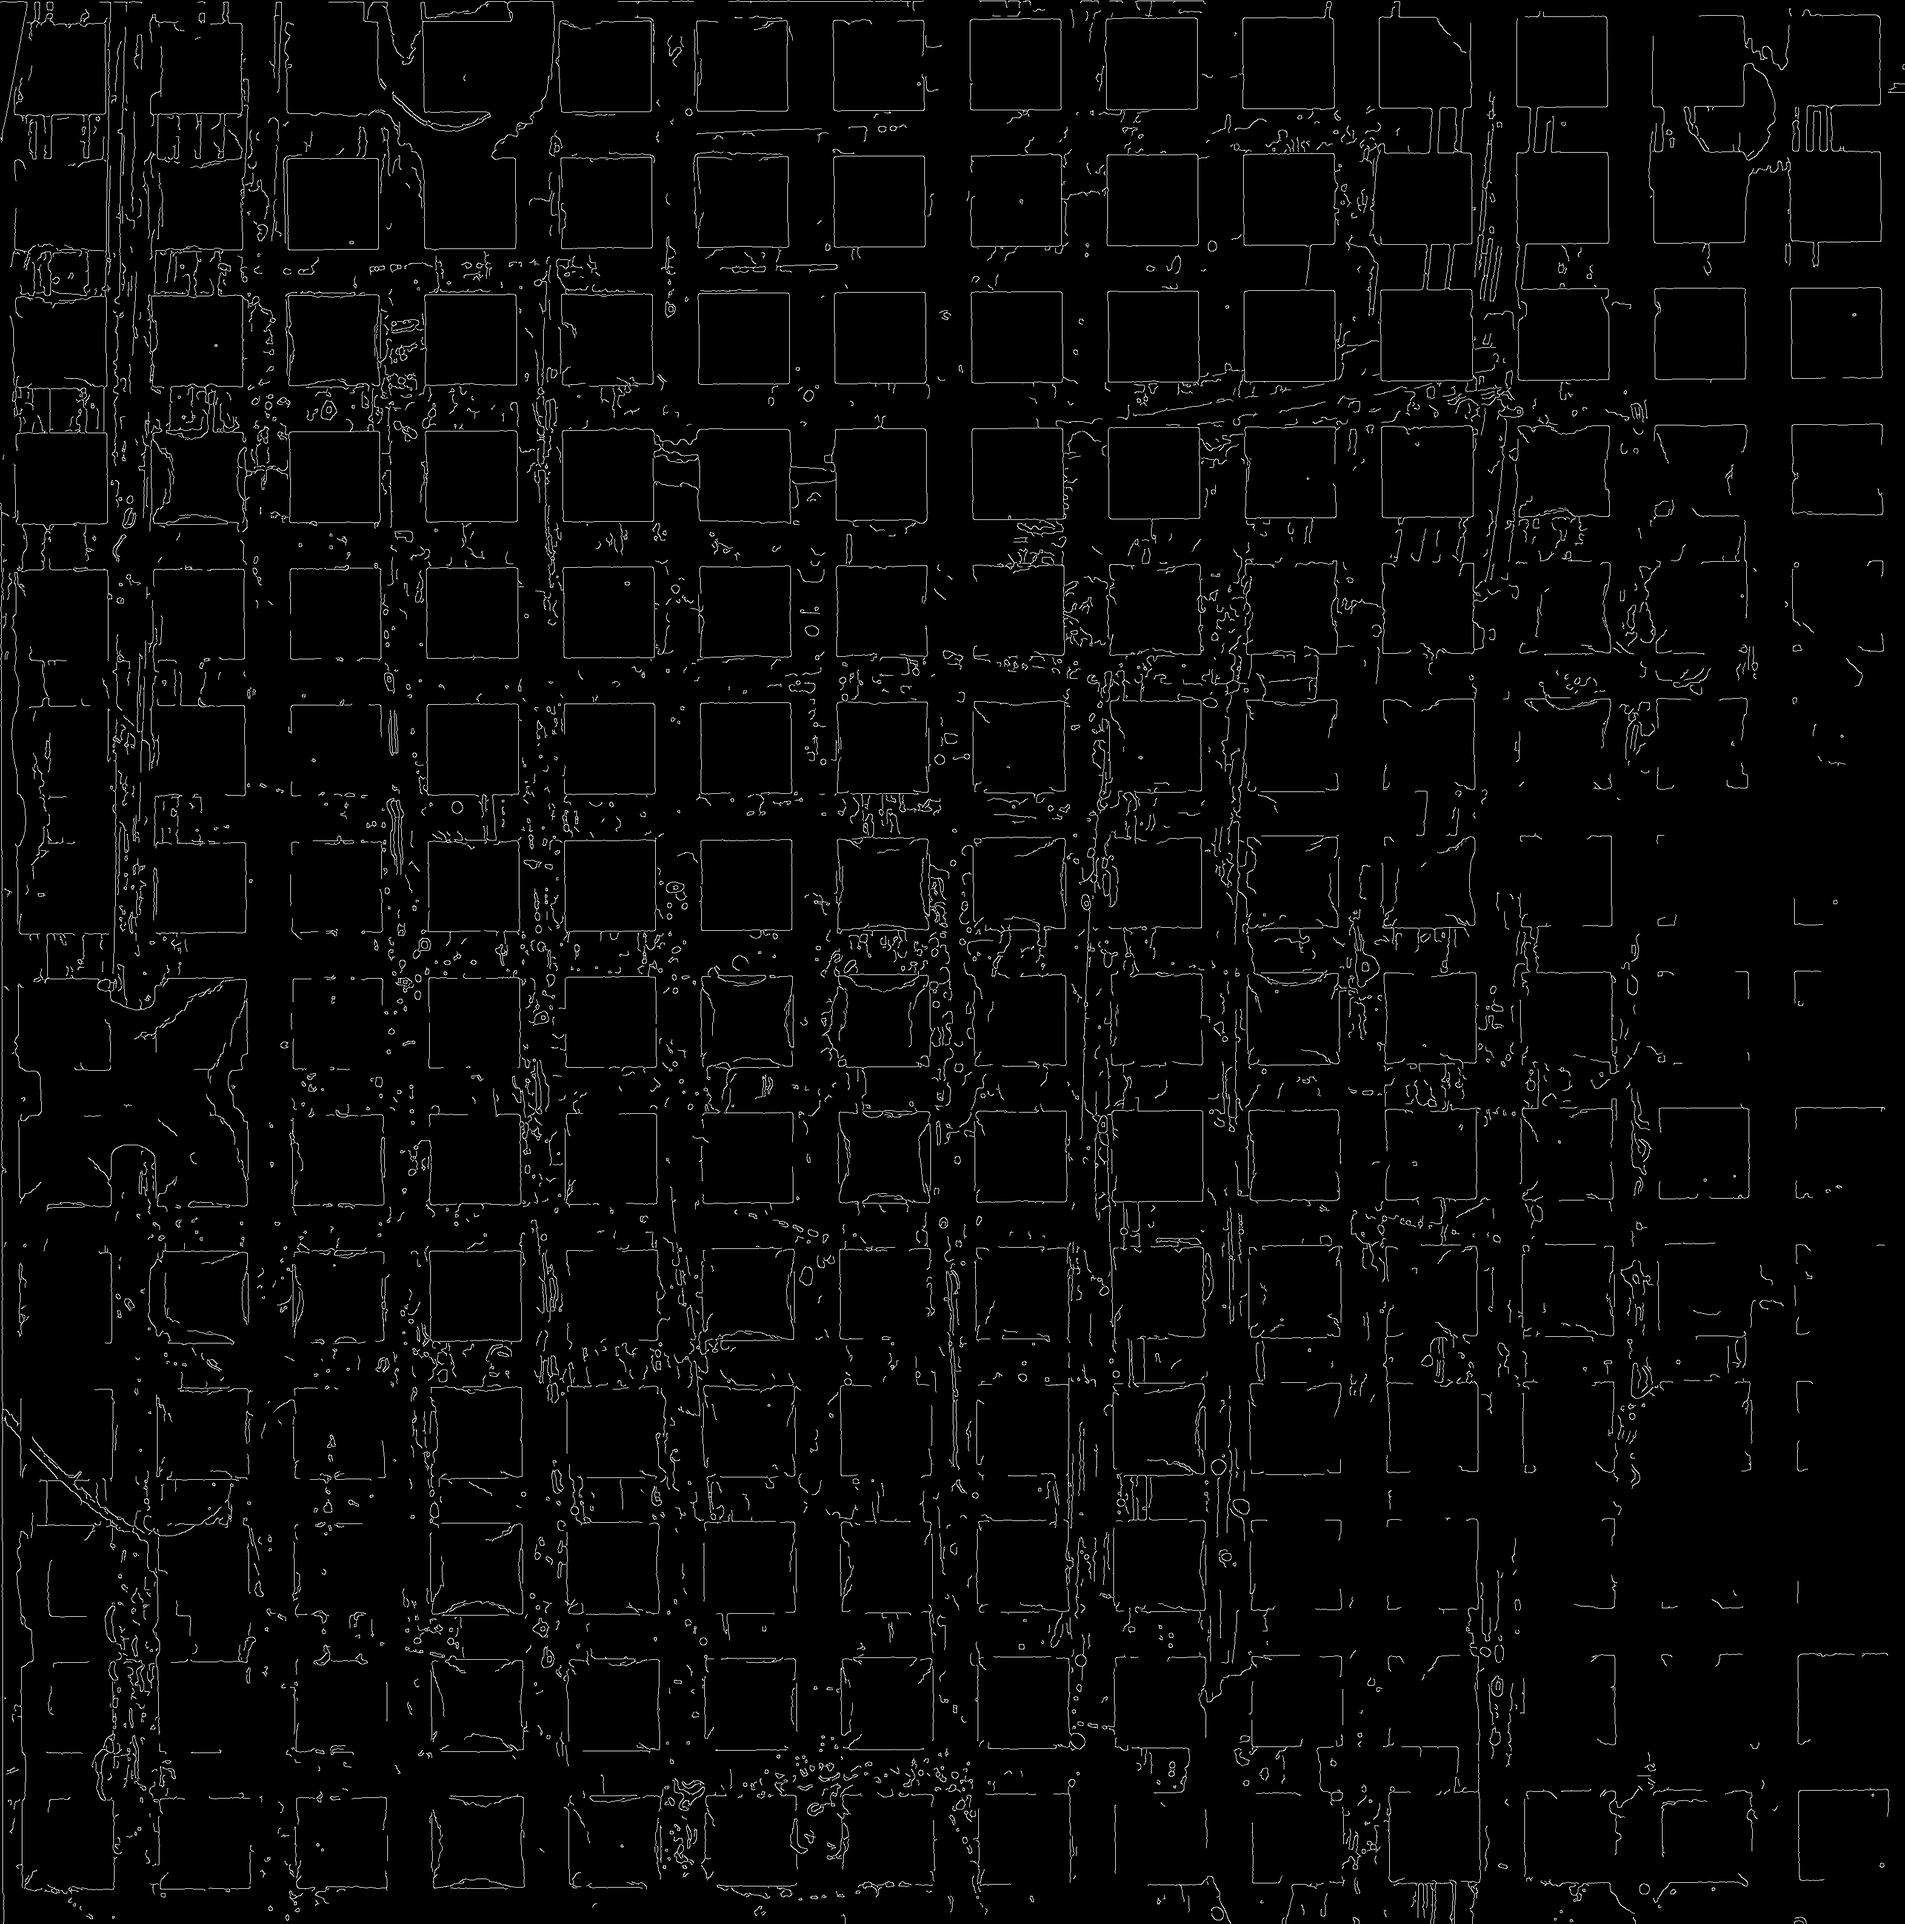
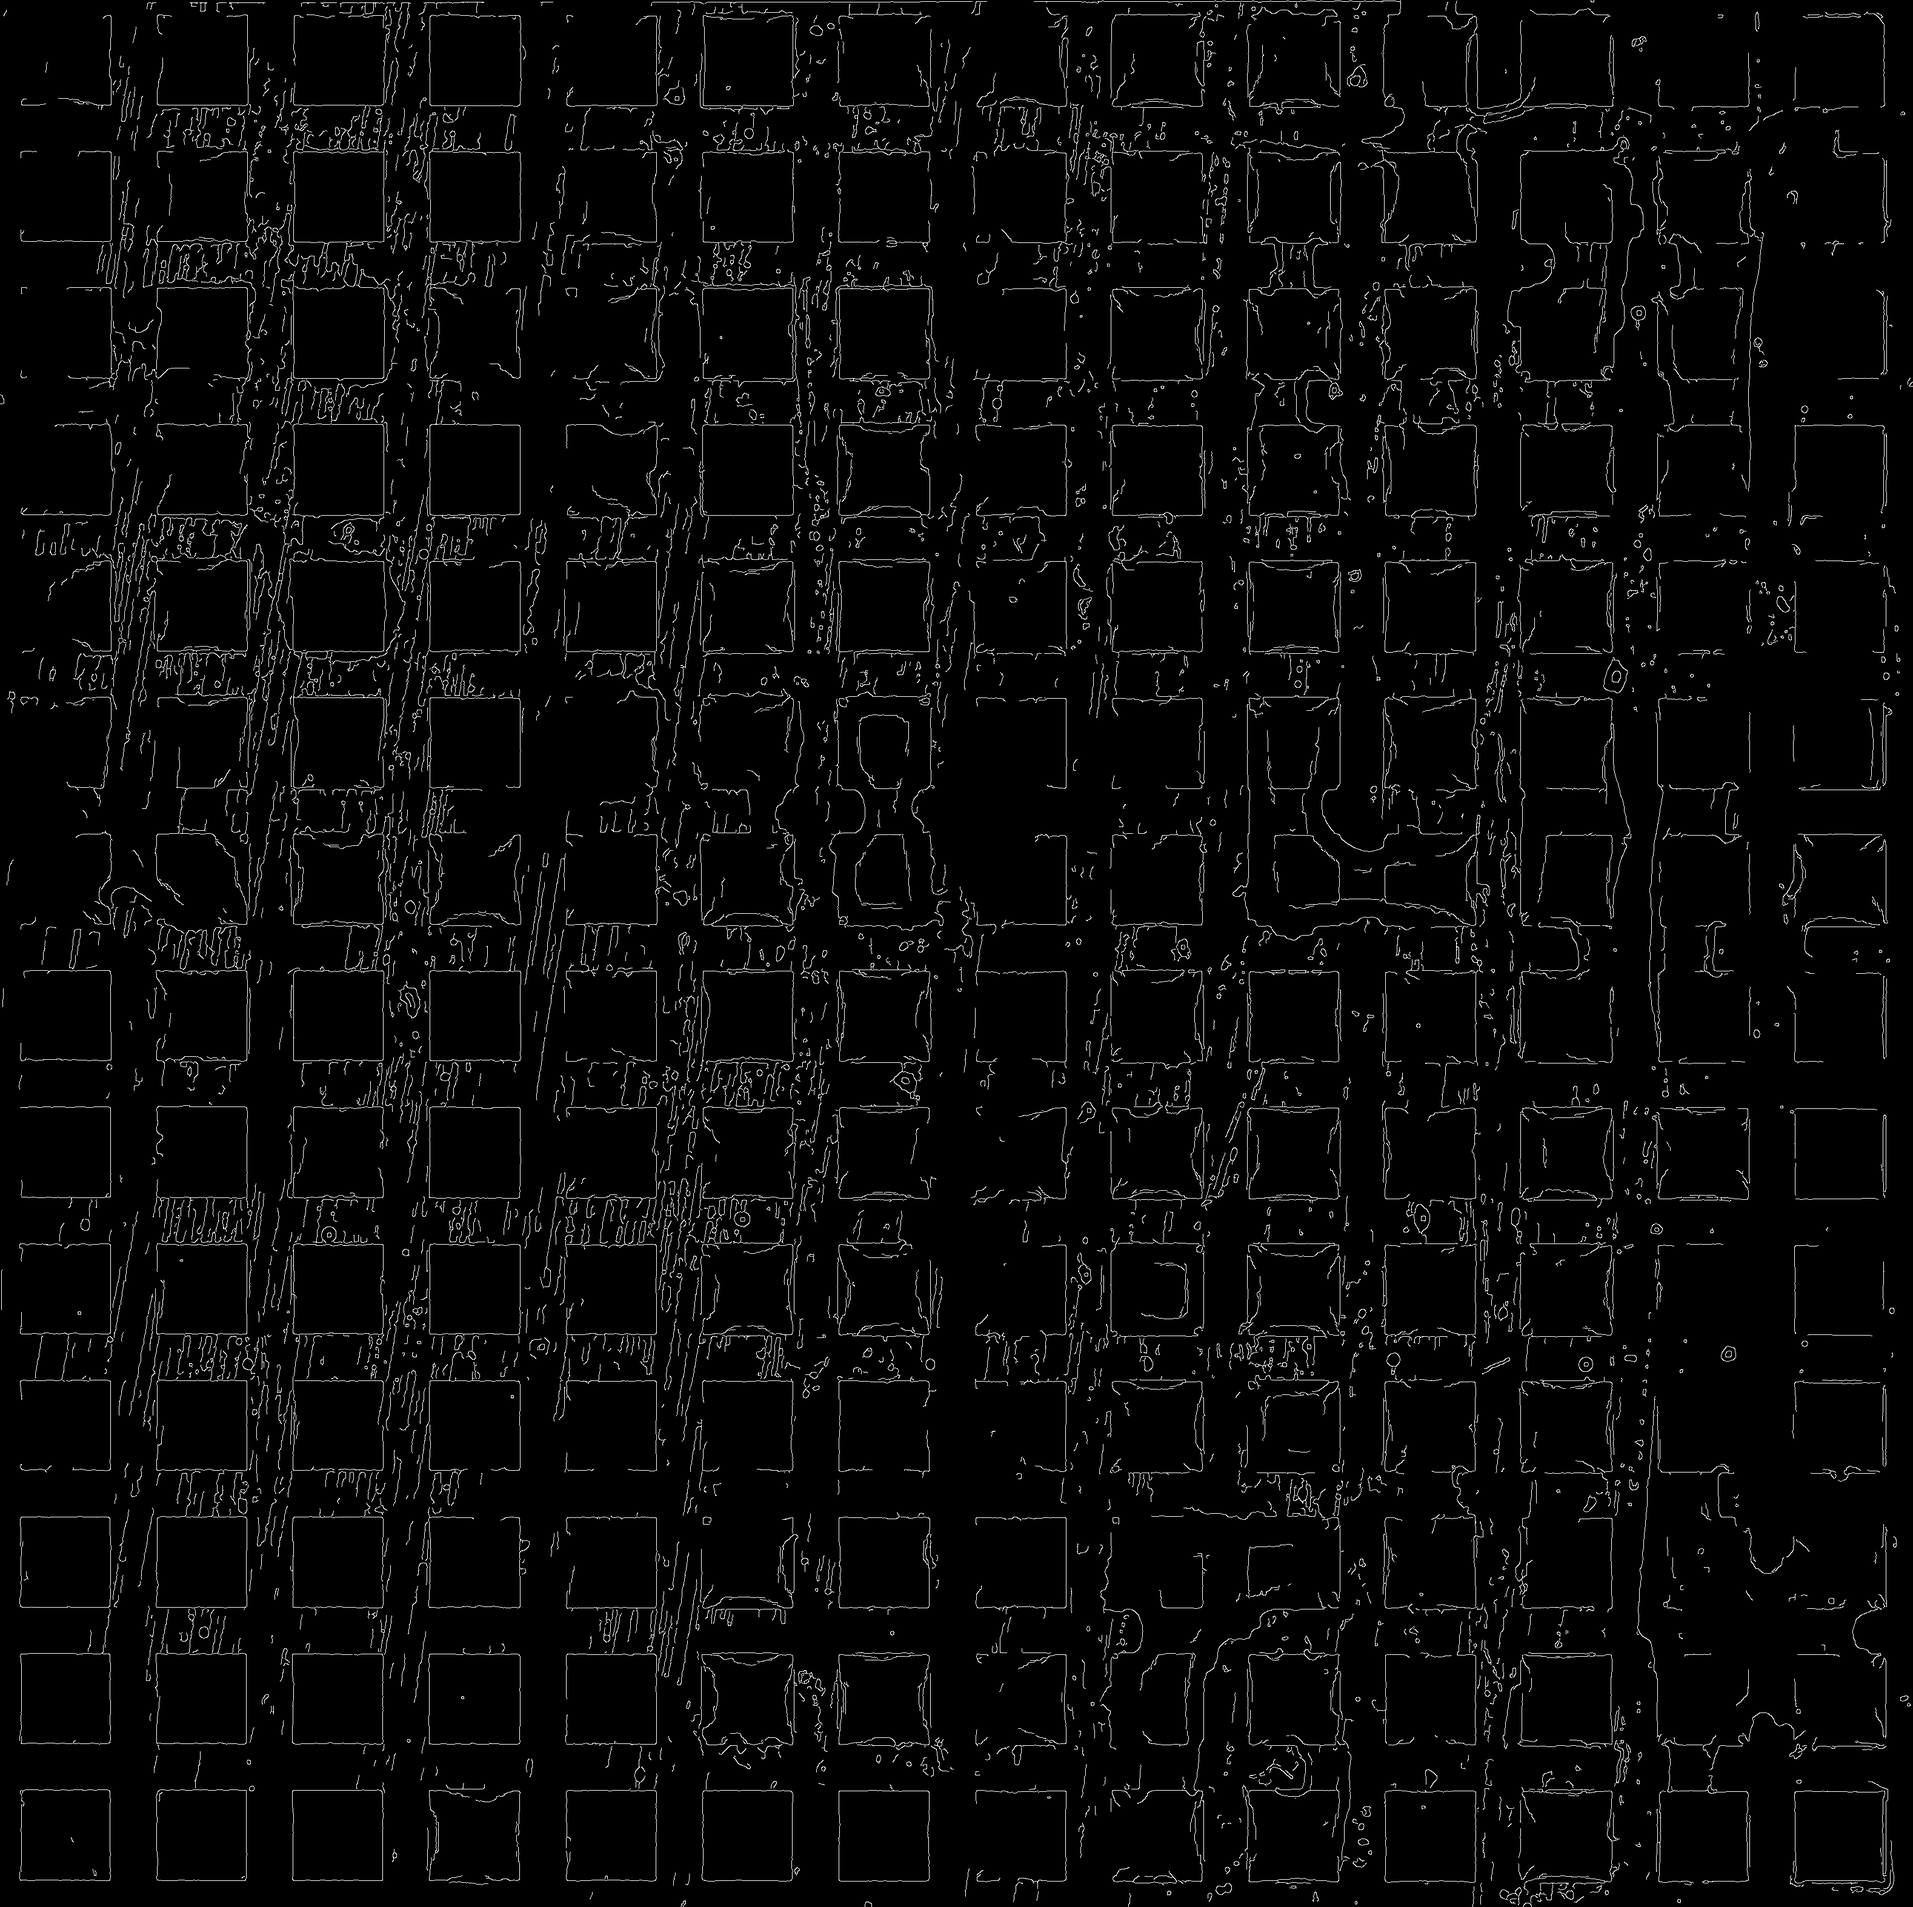
missing spots

diff --git a/src/main.py b/src/main.py
@@ -9,16 +9,141 @@ ap = argparse.ArgumentParser()
 ap.add_argument("-i", "--image", required = True,
     help = "Path to the image")
 
-# ap.add_argument("-t", "--template", required = True,
-#     help = "Path to the template image")
 
-#
-# ap.add_argument("-min", "--edge-min", required = False,
-#     help = "Min threshold for edges")
-#
-#
-# ap.add_argument("-max", "--edge-max", required = False,
-#     help = "Max threshold for edges")
+
+def shape_exists(shapes, shape):
+    exists = False
+
+    for sh in shapes:
+
+        if (shape[0][0] >= sh[0][0] and shape[0][0] <= sh[1][0]) and (shape[0][1] >= sh[0][1] and shape[0][1] <= sh[1][1]):
+            exists = True
+            break
+
+    return exists
+
+def count_lines_cols(shapes):
+
+    lines = 0
+    cols = 0
+
+    new_shapes = shapes[:]
+
+
+    for i in range(len(shapes)-1):
+
+        shape = shapes[i]
+        next_shape = shapes[i+1]
+
+        vertical_distance =  next_shape[0][1] - shape[1][1]
+
+        if vertical_distance<0:
+            cols = cols+1
+            if(lines==0):
+                lines = i
+
+    cols = cols+1
+    lines = lines+1
+
+    return (lines, cols)
+
+def find_origin_spot_shape(shapes, square_size, interspot_dist):
+
+    lines, cols = count_lines_cols(shapes)
+    shape = shapes[0]
+    x = shape[0][0]
+    y = shape[0][1]
+
+    while True:
+
+        if  x - (interspot_dist+square_size) < 0 and y - (interspot_dist+square_size) < 0:
+            break
+        else:
+            if x - (interspot_dist+square_size) >= 0:
+                x = x-(interspot_dist+square_size)
+            if y - (interspot_dist+square_size) >= 0:
+                y = y-(interspot_dist+square_size)
+
+    return [[x,y], [x+square_size, y+square_size]]
+
+
+def get_missing_spots(shapes, square_size, interspot_dist, img):
+
+    o_shape = find_origin_spot_shape(shapes, square_size, interspot_dist)
+    missing_shapes = []
+
+    tolerance = 10
+    (img_rows, img_cols, c) = img.shape
+
+    x = o_shape[0][0]
+    y = o_shape[0][1]
+    tmp_shape = [[x,y], [x+square_size, y+square_size]]
+
+    while True:
+
+
+
+        if(y+tolerance < img_rows and x+tolerance < img_cols):
+
+            if(not shape_exists(shapes, tmp_shape)):
+                missing_shapes.append(tmp_shape)
+
+            if(x + (interspot_dist+square_size+tolerance) > img_cols):
+
+                x = o_shape[0][0]
+                y = y + (interspot_dist+square_size)
+
+            else:
+                x = x + (interspot_dist+square_size)
+
+
+
+            tmp_shape = [[x,y], [x+square_size, y+square_size]]
+
+        else:
+            break
+
+    return shapes+missing_shapes
+
+
+
+
+
+
+
+
+def fill_in_missing_spots(shapes, square_size, interspot_dist):
+
+    cols = 0
+    interspot_dist_tolerance = 10
+    new_shapes = shapes[:]
+
+    for i in range(len(shapes)-1):
+
+        shape = shapes[i]
+        next_shape = shapes[i+1]
+
+        vertical_distance =  next_shape[0][1] - shape[1][1]
+
+        print vertical_distance
+
+        if vertical_distance>interspot_dist+interspot_dist_tolerance:
+
+            print "=="
+            cols = cols + 1
+            #
+            missing_shape_pt_1 = [shape[0][0], shape[0][1]+square_size+interspot_dist]
+            missing_shape_pt_2 = [shape[1][0], shape[1][1]+square_size+interspot_dist]
+            missing_spot = [missing_shape_pt_1, missing_shape_pt_2]
+            print missing_spot
+            print shape
+            new_shapes.insert(i,missing_spot)
+
+    print cols+1
+    return new_shapes
+
+
+
 
 
 args = vars(ap.parse_args())
@@ -54,36 +179,64 @@ cv2.imwrite( "output/canny_edged.png", edged_img );
 dilated_img  = preproc.dilate(edged_img)
 cv2.imwrite( "output/dilated.png", dilated_img );
 
-(shapes, mean, interspot_dist) = spot_detector.exeCalc(dilated_img)
 
-squares = spot_detector.printSquare(shapes, img)
 
+###-START-CUT-1
+
+
+
+(shapes, square_size, interspot_dist) = spot_detector.exeCalc(dilated_img)
+
+
+
+#new_shapes = fill_in_missing_spots(shapes, square_size, interspot_dist)
+#new_shapes = horizontal_spot_fill_in(shapes, square_size, interspot_dist)
+
+# o_shape = find_origin_spot_shape(shapes, square_size, interspot_dist)
 #
+# if(not shape_exists(shapes, o_shape)):
+#     shapes.insert(0, o_shape)
 
-i=1
-for shape in shapes:
+
+new_shapes = get_missing_spots(shapes, square_size, interspot_dist, img)
+squares = spot_detector.printSquare(new_shapes, img)
+
+
+for i in range(len(new_shapes)):
+
+    shape = new_shapes[i]
 
     #get region of interest (y1:y2, x1:x2)
-    roi_img = img[shape[0][1]:shape[1][1],shape[0][0]:shape[1][0]]
+    #roi_img = img[shape[0][1]:shape[1][1],shape[0][0]:shape[1][0]]
     #count cells
-    cells_n = cell_counter.count_cells(roi_img)
-    cells_label = str(cells_n) +  " cell(s)"
+    #cells_n = cell_counter.count_cells(roi_img)
+    #cells_label = str(cells_n) +  " cell(s)"
     #draw text background
-    cv2.rectangle(squares, (shape[0][0], shape[0][1]-40), (shape[1][0],  shape[0][1]), (0,255,0), cv2.FILLED)
+    #cv2.rectangle(squares, (shape[0][0], shape[0][1]-40), (shape[1][0],  shape[0][1]), (0,255,0), cv2.FILLED)
     #draw label
-    cv2.putText(squares, cells_label, (shape[0][0]+20, shape[0][1]-12), cv2.FONT_HERSHEY_SIMPLEX, 0.76, (0, 0, 0), 2)
+    #cv2.putText(squares, cells_label, (shape[0][0]+20, shape[0][1]-12), cv2.FONT_HERSHEY_SIMPLEX, 0.76, (0, 0, 0), 2)
 
-    cv2.putText(squares, str(i), (shape[0][0]+1, shape[0][1]-28), cv2.FONT_HERSHEY_SIMPLEX, 0.40, (0, 0, 0), 1)
+    cv2.putText(squares, str(i), (shape[0][0]+1, shape[0][1]-28), cv2.FONT_HERSHEY_SIMPLEX, 0.80, (0, 0, 255), 1)
 
-    i=i+1
 
 
 cv2.imwrite("output/final.jpg", squares)
 
-# INFO: test command: python main.py -i test_ressources/contours_sample_1_raw.jpg
+
+"INFO: test command: python main.py -i test_ressources/contours_sample_1_raw.jpg"
 
 
-###-START-CUT-1
+
+
+
+
+
+
+
+
+
+
+
 
 
 

diff --git a/src/spot_detector.py b/src/spot_detector.py
@@ -314,7 +314,6 @@ def exeCalc(dilated):
     return [shape, mean, interspot_dist]  # [[ [point sup gauche, point inf droit], [point sup ...], ... ], moyenne de la taille de tous les carres]
 
 def printSquare(shape, support, path="output/"):
-    print(shape[0])
     print("SPORT DETECTOR: printSquare...")
     "dessine les carres et les dessines sur le support, et l'enregistre dans le Path, ou a coter (default)"
     support = drawRect(support, shape)  # on dessine les carres trouve
